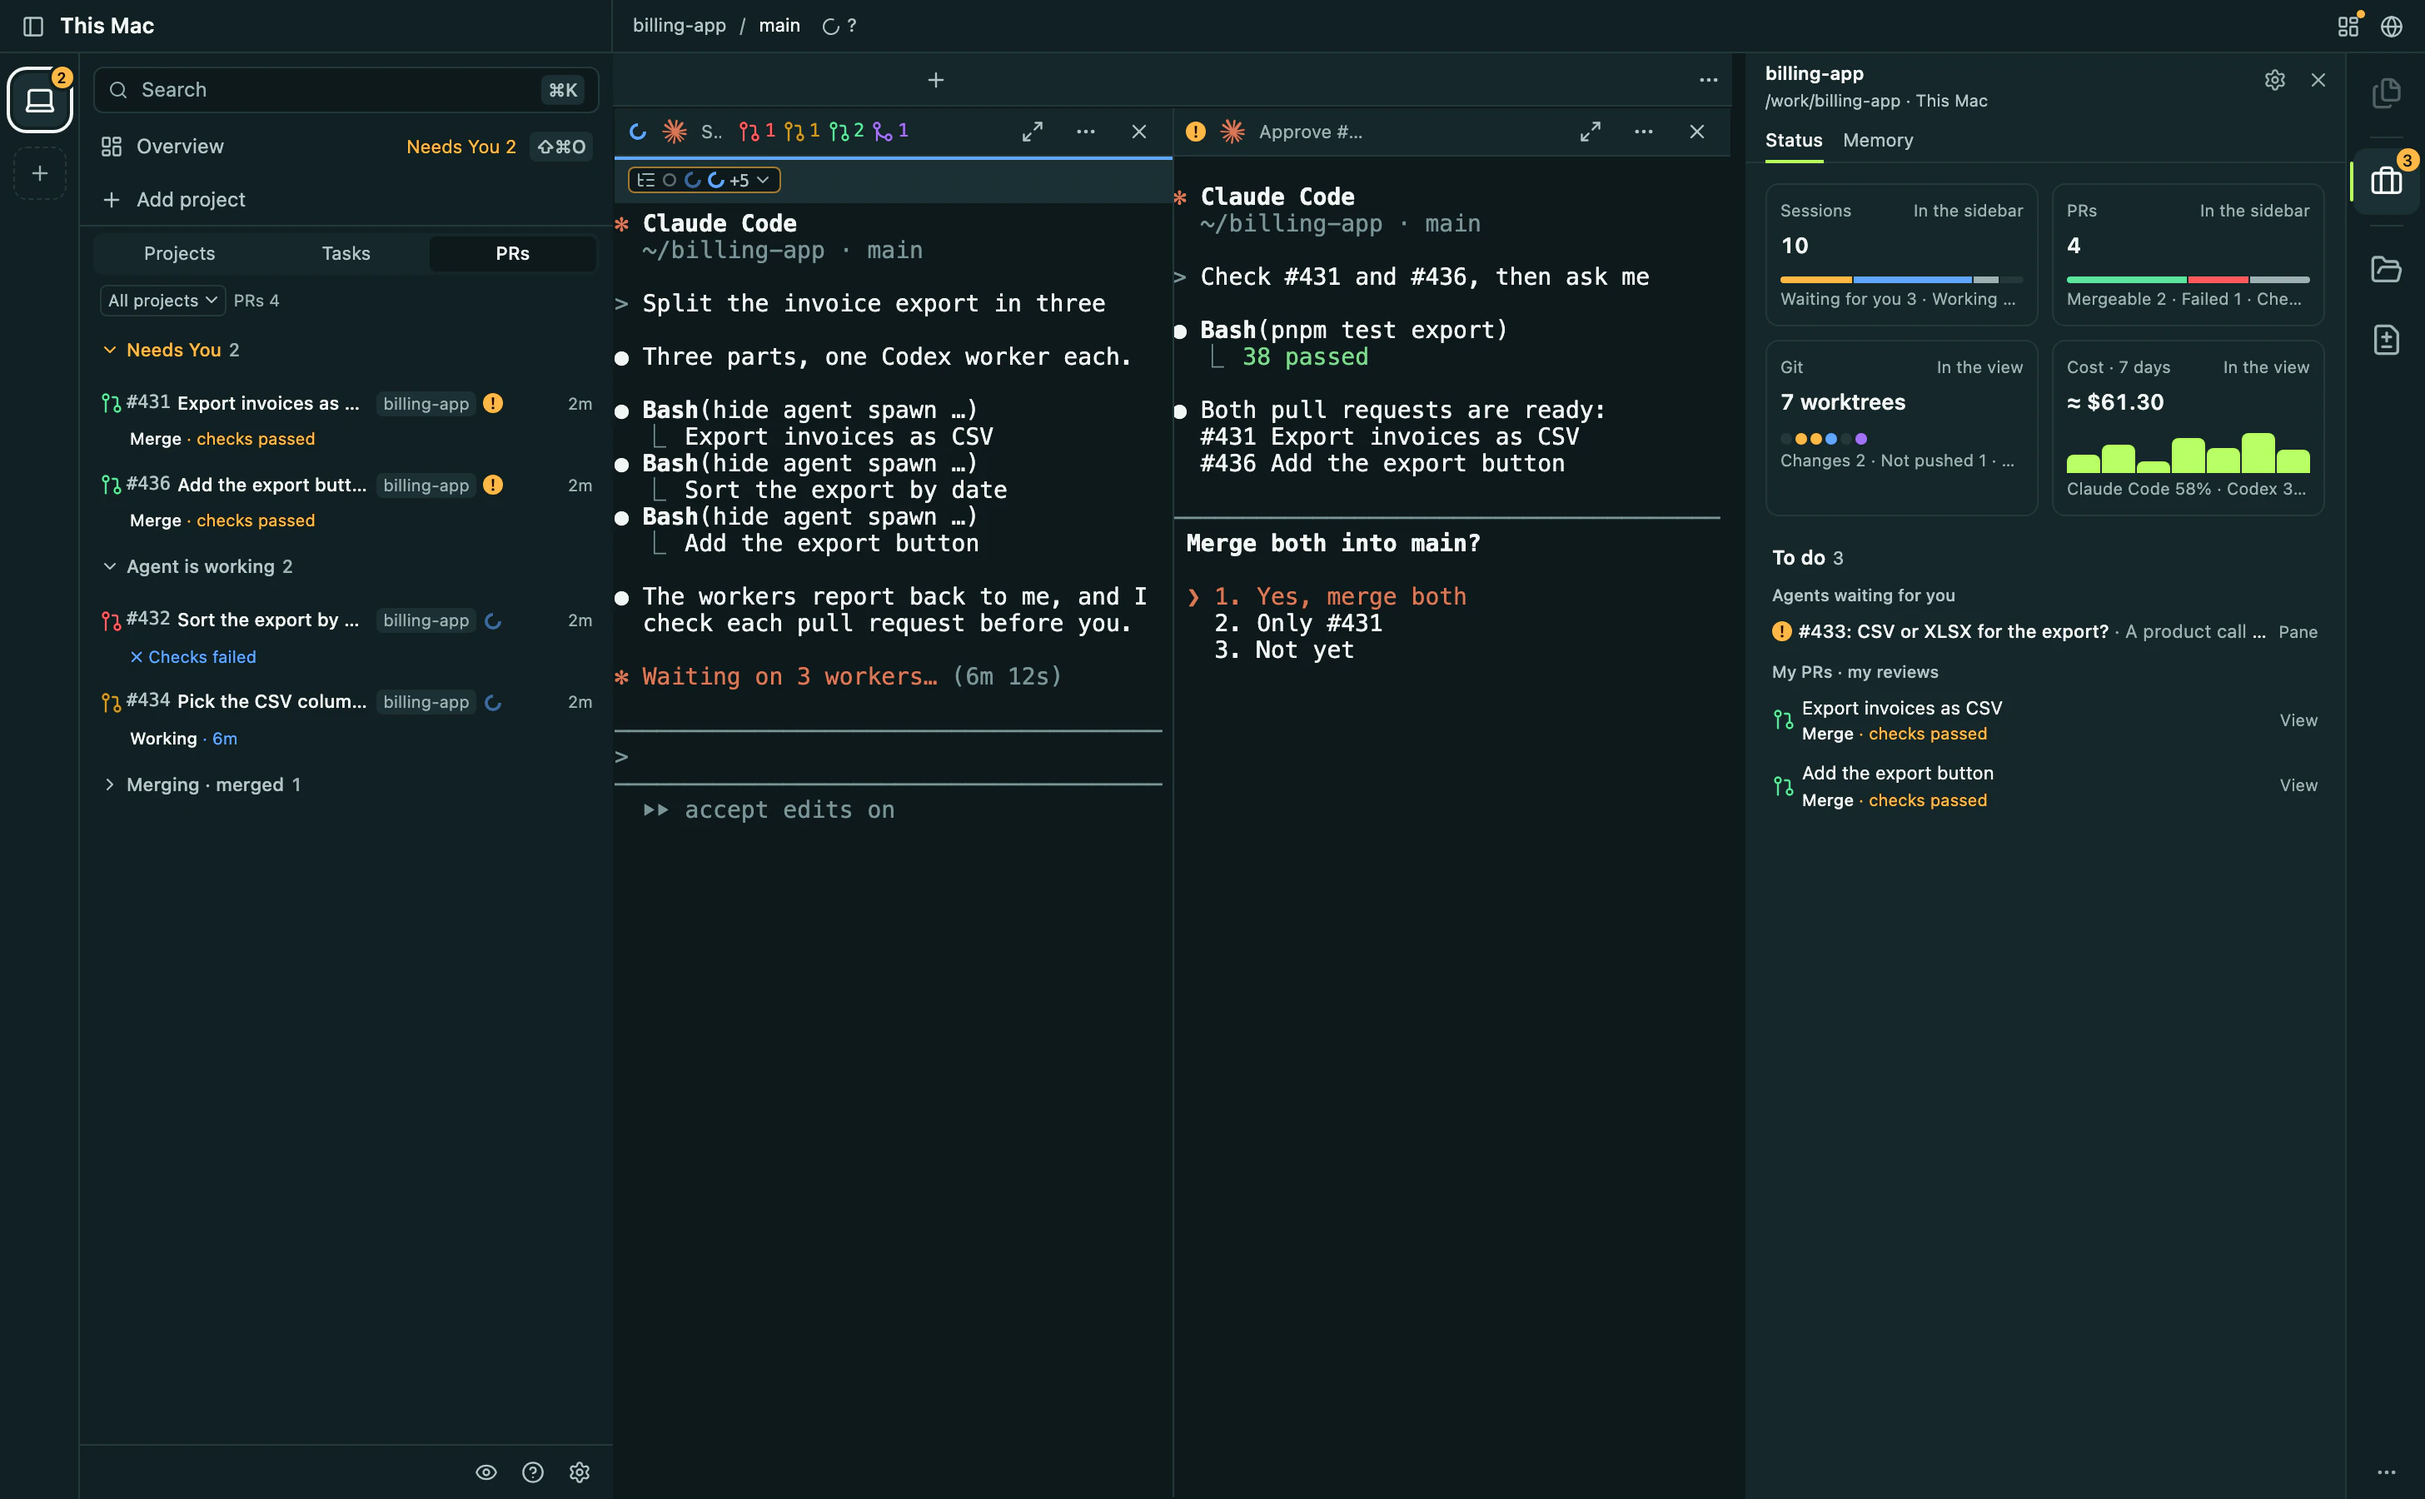
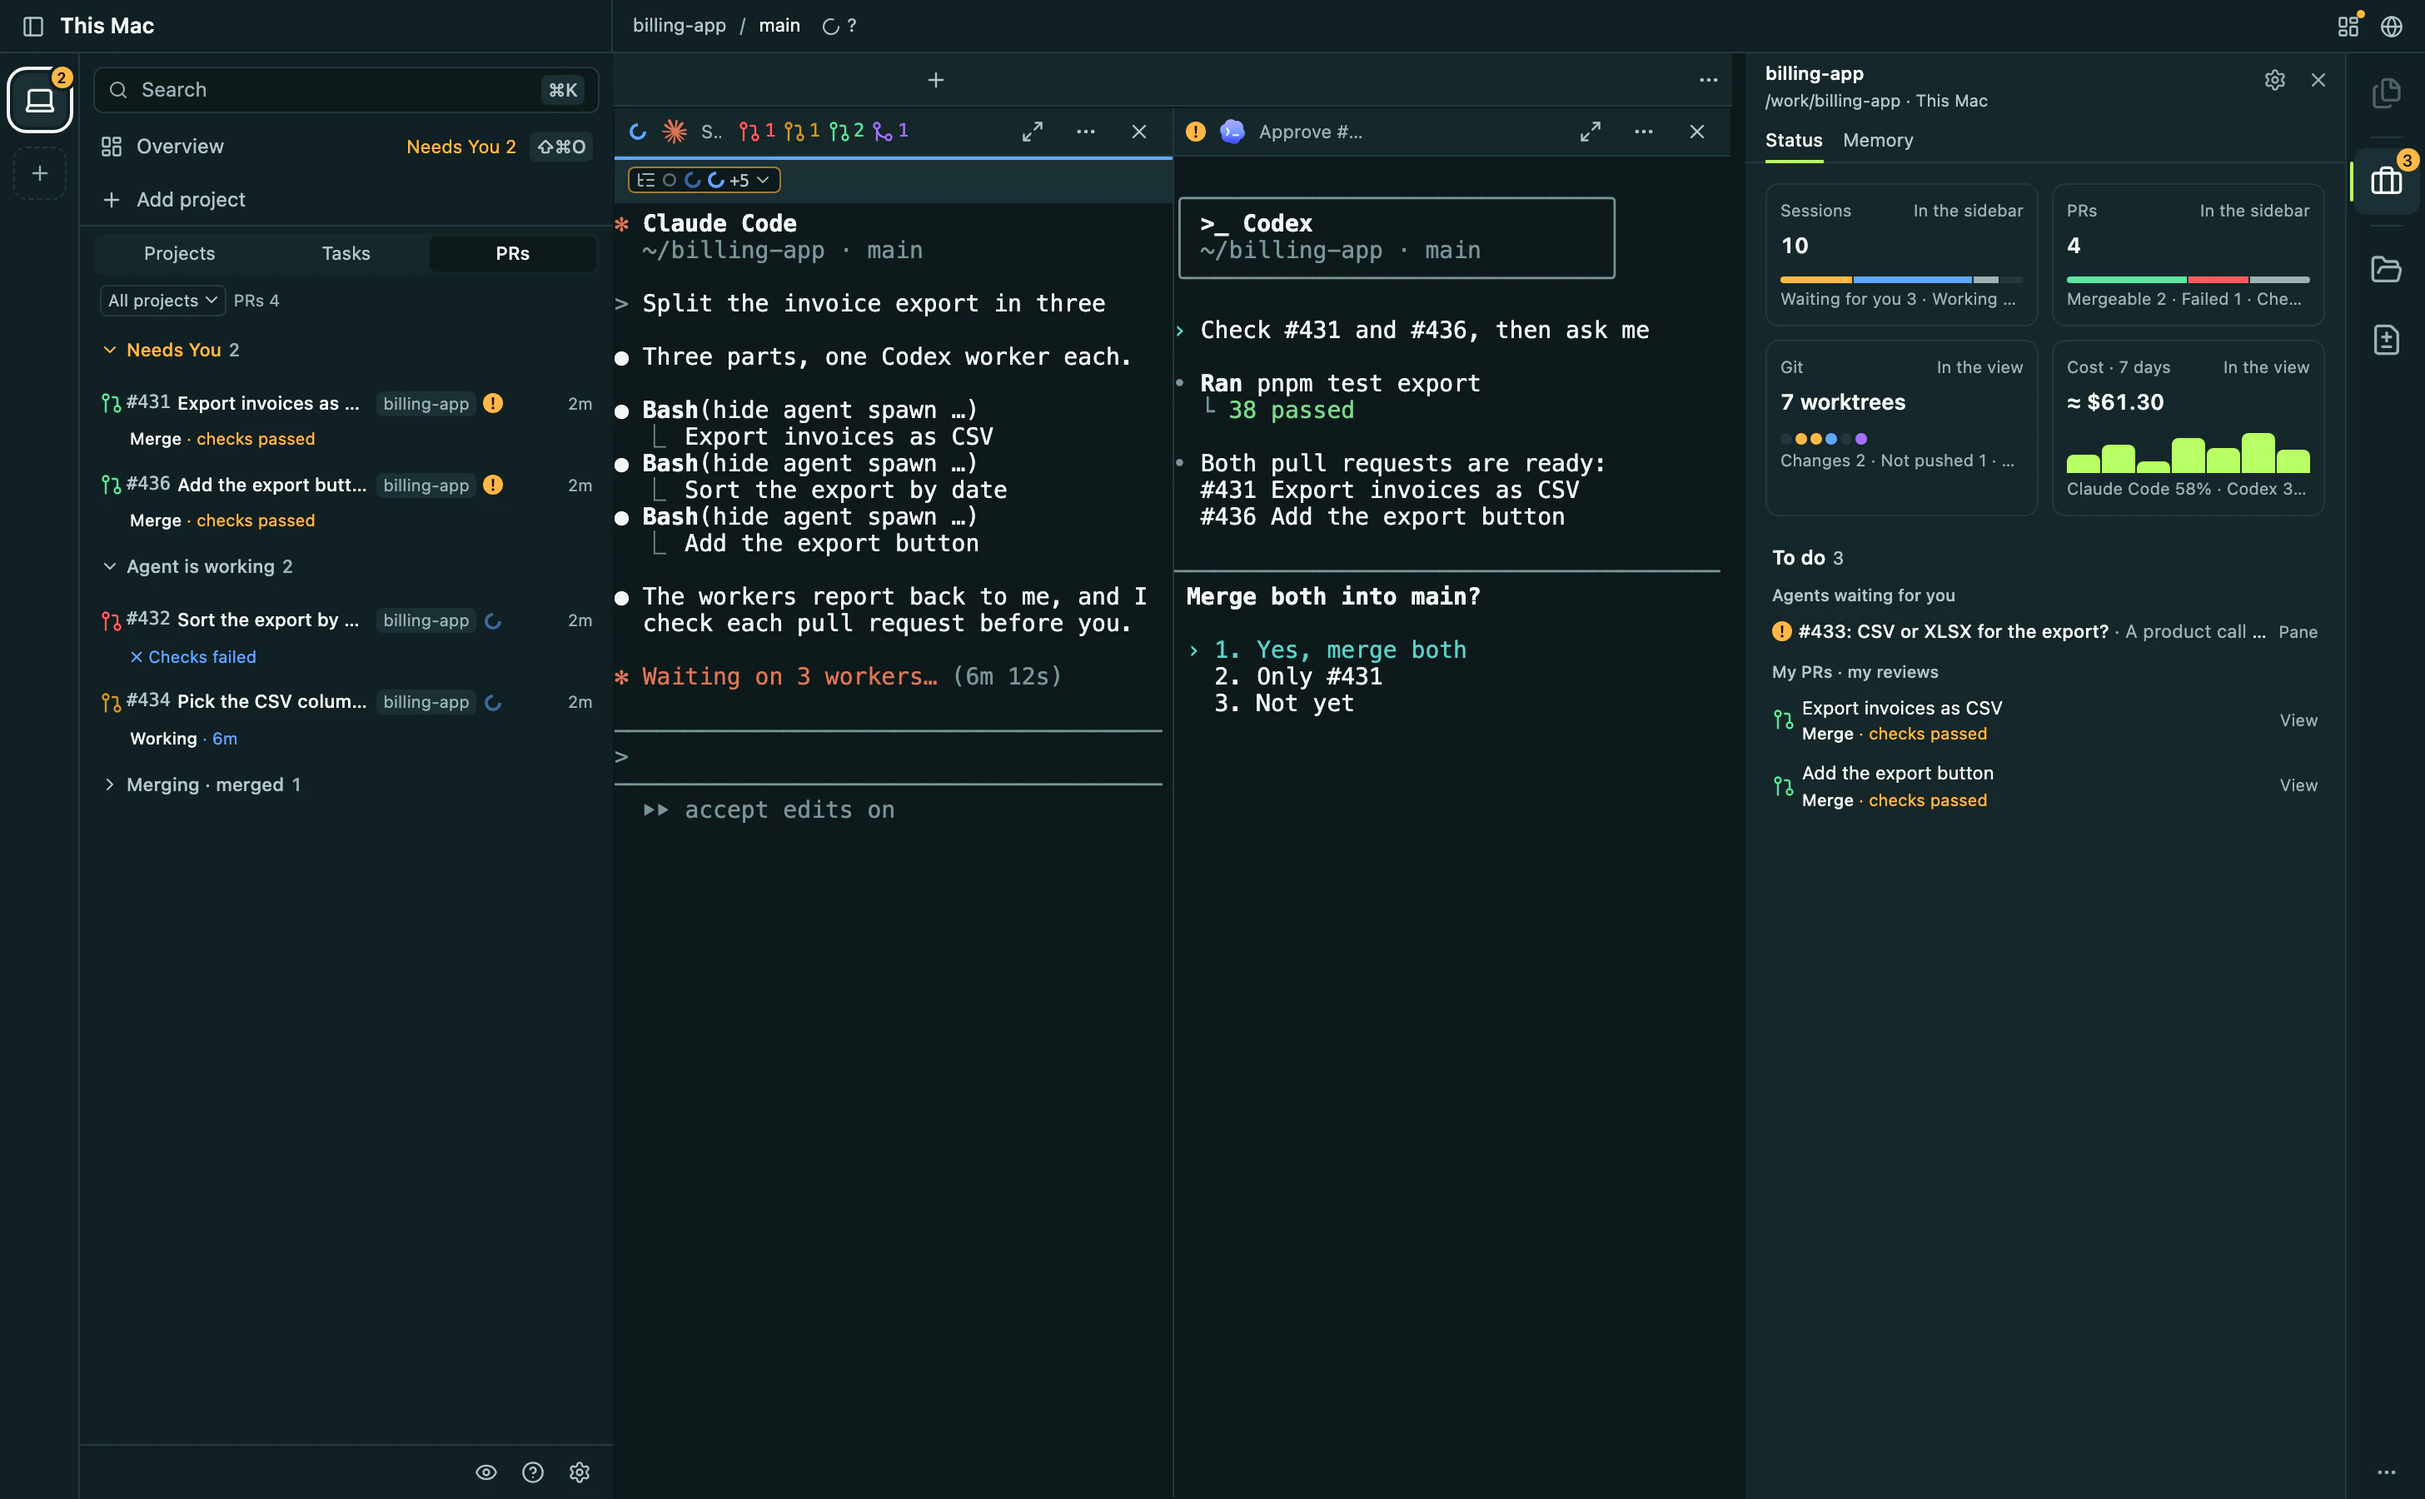
feat: show Codex and Antigravity beside Claude Code in the landing scenes

Changed region(s): [[0.4688, 0.2178, 0.6562, 0.4667], [0.4688, 0.1244, 0.6875, 0.1867], [0.5, 0.0622, 0.5312, 0.0933]]

diff --git a/web/src/gallery/landingSceneData.ts b/web/src/gallery/landingSceneData.ts
@@ -21,8 +21,8 @@ const ref = (number: number) => `#${number}`;
 type Words = { title: string; kind: string; detail?: string; pull?: [number, string] };
 
 const AGENT_WORDS: Record<string, Words> = {
-  a3: { title: `Approve ${ref(431)} and ${ref(436)}?`, kind: "claude", detail: "Both checked by Claude Code. Tests pass." },
-  q1: { title: `${ref(433)}: CSV or XLSX for the export?`, kind: "claude", detail: "A product call the lead won't make for you." },
+  a3: { title: `Approve ${ref(431)} and ${ref(436)}?`, kind: "codex", detail: "Both checked. Tests pass." },
+  q1: { title: `${ref(433)}: CSV or XLSX for the export?`, kind: "antigravity", detail: "A product call the lead won't make for you." },
   q2: { title: "Fix the test that broke the export", kind: "opencode" },
   e1: { title: "Task detail API", kind: "codex" },
   tn1: { title: "Tidy the meeting notes", kind: "claude" },
@@ -303,10 +303,10 @@ export function landingUsage(nowMs: number): NodeUsage {
 
 /** The Overview's agents in the page's words: who they are, what they ask and what they are doing now, by pane id. */
 const MAP_WORDS: Record<string, { title: string; now?: string; ask?: string; kind?: string }> = {
-  "h-a3": { title: `Approve ${ref(431)} and ${ref(436)}?`, ask: "Both pass their checks. Merge them into main?" },
+  "h-a3": { title: `Approve ${ref(431)} and ${ref(436)}?`, ask: "Both pass their checks. Merge them into main?", kind: "codex" },
   "h-a1": { title: "Split the invoice export in three", now: "Waiting on 3 workers" },
   "h-a1c1": { title: "Export invoices as CSV", now: "Writing the rows" },
-  "h-a1c2": { title: `Check ${ref(431)} and ${ref(436)}` },
+  "h-a1c2": { title: `Check ${ref(431)} and ${ref(436)}`, kind: "antigravity" },
   "h-a1c3": { title: "Sort the export by date", now: "Running the tests" },
   "h-a1c4": { title: "Pick the CSV column order" },
   "h-a1g1": { title: "Add a test for sorted output", now: "Writing the test", kind: "opencode" },
@@ -316,7 +316,7 @@ const MAP_WORDS: Record<string, { title: string; now?: string; ask?: string; kin
   "h-r2": { title: "Update the dependencies", now: "List done" },
   "b-1": { title: "Retry failed payments", ask: "Run the migration on the production database?" },
   "b-2": { title: "Verify webhook signatures", now: "Fixing the failing check" },
-  "s-1": { title: "Polish the pricing page", now: "Three drafts done" },
+  "s-1": { title: "Polish the pricing page", now: "Three drafts done", kind: "antigravity" },
 };
 const MAP_PROJECTS: Record<string, string> = { hide: "billing-app", "billing-api": "payments-api", site: "docs-site", "team-notes": "notes" };
 
@@ -344,6 +344,7 @@ export function landingMap(nowMs: number): OverviewWorld {
 }
 
 const CLAUDE = "\x1b[38;2;215;119;87m";
+const CODEX = "\x1b[36m";
 const DIM = "\x1b[90m";
 const BOLD = "\x1b[1m";
 const GREEN = "\x1b[32m";
@@ -387,22 +388,24 @@ export const HERO_TERMINALS: Record<(typeof HERO_PANES)[number], string> = {
   ),
   a3: lines(
     "",
-    `${CLAUDE}✻${RESET} ${BOLD}Claude Code${RESET}`,
-    `  ${DIM}~/billing-app · main${RESET}`,
+    `${DIM}╭──────────────────────────────╮${RESET}`,
+    `${DIM}│${RESET} ${BOLD}>_ Codex${RESET}                     ${DIM}│${RESET}`,
+    `${DIM}│${RESET} ${DIM}~/billing-app · main${RESET}         ${DIM}│${RESET}`,
+    `${DIM}╰──────────────────────────────╯${RESET}`,
     "",
-    `${DIM}>${RESET} Check ${ref(431)} and ${ref(436)}, then ask me`,
+    `${CODEX}›${RESET} Check ${ref(431)} and ${ref(436)}, then ask me`,
     "",
-    `● ${BOLD}Bash${RESET}(pnpm test export)`,
-    `  ${DIM}⎿${RESET}  ${GREEN}38 passed${RESET}`,
+    `${DIM}•${RESET} ${BOLD}Ran${RESET} pnpm test export`,
+    `  ${DIM}└${RESET} ${GREEN}38 passed${RESET}`,
     "",
-    "● Both pull requests are ready:",
+    `${DIM}•${RESET} Both pull requests are ready:`,
     `  ${ref(431)} Export invoices as CSV`,
     `  ${ref(436)} Add the export button`,
     "",
     `${DIM}${RULE}${RESET}`,
     ` ${BOLD}Merge both into main?${RESET}`,
     "",
-    ` ${CLAUDE}❯ 1. Yes, merge both${RESET}`,
+    ` ${CODEX}› 1. Yes, merge both${RESET}`,
     `   2. Only ${ref(431)}`,
     "   3. Not yet",
   ),

diff --git a/site/index.html b/site/index.html
@@ -67,7 +67,7 @@
               <div class="panel" role="tabpanel" id="panel-projects" aria-labelledby="tab-projects" data-caption="Every project's agents in one tree, the two that need you on top, and the project's state beside them.">
                 <picture>
                   <source media="(prefers-color-scheme: light)" srcset="./assets/shots/hero-light.webp">
-                  <img src="./assets/shots/hero-dark.webp" width="2912" height="1800" alt="The hide window. The sidebar's Projects list raises the two agents that need an answer above the project tree. A lead splitting the work and the agent asking to merge two pull requests run side by side, and the Project tool beside them counts the sessions, pull requests, worktrees and the last seven days' cost, with the project's to-do list under them.">
+                  <img src="./assets/shots/hero-dark.webp" width="2912" height="1800" alt="The hide window. The sidebar's Projects list raises the two agents that need an answer above the project tree. A Claude Code lead splitting the work and a Codex agent asking to merge two pull requests run side by side, and the Project tool beside them counts the sessions, pull requests, worktrees and the last seven days' cost, with the project's to-do list under them.">
                 </picture>
               </div>
               <div class="panel" role="tabpanel" id="panel-tasks" aria-labelledby="tab-tasks" data-caption="Every task on the machine by state. What waits on you comes first." hidden>
@@ -210,15 +210,15 @@
           <h2 id="beside-title">Your agent drives the browser.<br> <span class="accent">You watch it check its work.</span></h2>
           <p>An agent opens the page it changed beside its pane, clicks through it and reads what it shows before it asks you. A file it names opens next to it too, so you review the work where it happened.</p>
         </div>
-        <div class="canvas beside reveal" id="beside-scene" role="img" aria-label="An agent's terminal beside a browser display. The agent opens the invoices page, clicks Export CSV, reads that an export dialog appeared, and opens the file it changed in a tab beside the page.">
+        <div class="canvas beside reveal" id="beside-scene" role="img" aria-label="A Codex terminal beside a browser display. The agent opens the invoices page, clicks Export CSV, reads that an export dialog appeared, and opens the file it changed in a tab beside the page.">
           <div class="term">
-            <div class="term-bar"><span class="term-ring"></span><b>Claude Code</b><span>· Add the export button</span></div>
-            <pre class="term-body" id="beside-term">&gt; Check the export button works, then show me
-● Bash(hide browser open localhost:5173/invoices)
-● Bash(hide browser click browser-1 --text "Export CSV")
-  ⎿ + dialog "Export ready · 128 rows"
-● Bash(hide file open src/export/csv.ts)
-● It works. The page and the file are beside you.</pre>
+            <div class="term-bar"><span class="term-ring"></span><b>Codex</b><span>· Add the export button</span></div>
+            <pre class="term-body" id="beside-term">› Check the export button works, then show me
+• Ran hide browser open localhost:5173/invoices
+• Ran hide browser click browser-1 --text "Export CSV"
+  └ + dialog "Export ready · 128 rows"
+• Ran hide file open src/export/csv.ts
+• It works. The page and the file are beside you.</pre>
           </div>
           <div class="view" aria-hidden="true">
             <div class="view-tabs"><span class="view-tab on" data-view="page">localhost:5173</span><span class="view-tab" data-view="file" id="beside-file-tab">csv.ts</span></div>
